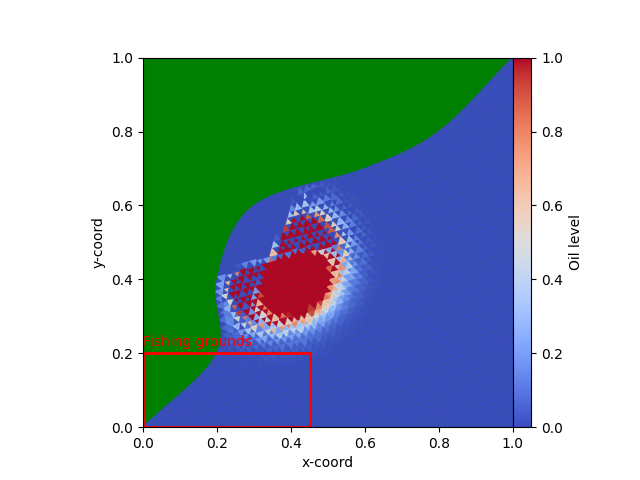
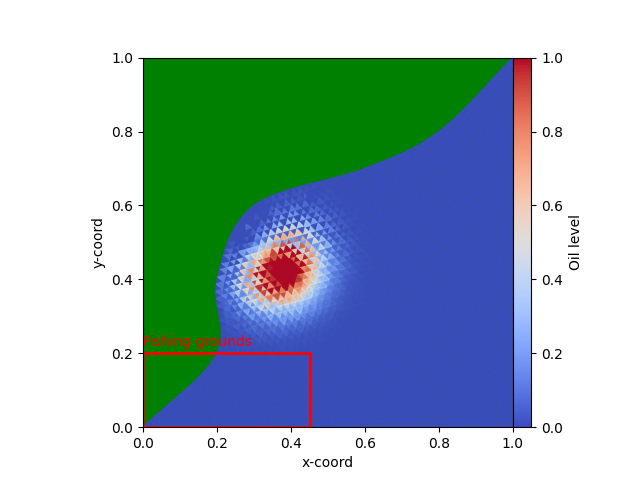
chore: ran some more simulations

Changed region(s): [[0.3438, 0.4062, 0.5938, 0.75]]

diff --git a/src/controller.py b/src/controller.py
@@ -18,7 +18,7 @@ class Controller:
         self.timeline = []
         self.next_oil_value = {}
         self.timestep = 0
-        self.timestep_length = 1
+        self.timestep_length = 0.1
 
     def set_initial_oil_values(self):
         value_dict = {}
@@ -87,12 +87,11 @@ class Controller:
             if border.get_neighbour() is not None:
                 flux = self.calculate_flux_triangle_edge(border, area_i, flow_i, oil_i)
                 flux_list.append(flux)
-            else:
-                if border.get_border_type() == "ocean":
-                    flux = self.calculate_flux_edge(border, area_i, flow_i, oil_i)
-                    flux_list.append(flux)
-                elif border.get_border_type() == "coast":
-                    continue
+            elif border.get_border_type() == "ocean":
+                flux = self.calculate_flux_edge(border, area_i, flow_i, oil_i)
+                flux_list.append(flux)
+            elif border.get_border_type() == "coast":
+                continue
 
 
         oil_value_new = oil_i

diff --git a/main.py b/main.py
@@ -80,3 +80,13 @@ image.plot_Triangles()
 
 image.plot_line(fishing_ground, print_txt=True)
 image.save_img("src/resources/output/image2.png")
+
+
+i = 3
+while i < 10:
+    controller.calculate_timestep()
+    image = CreateImage(triangle_cells)
+    image.plot_Triangles()
+    image.plot_line(fishing_ground, print_txt=True)
+    image.save_img(f"src/resources/output/image{i}.png")
+    i = i + 1
